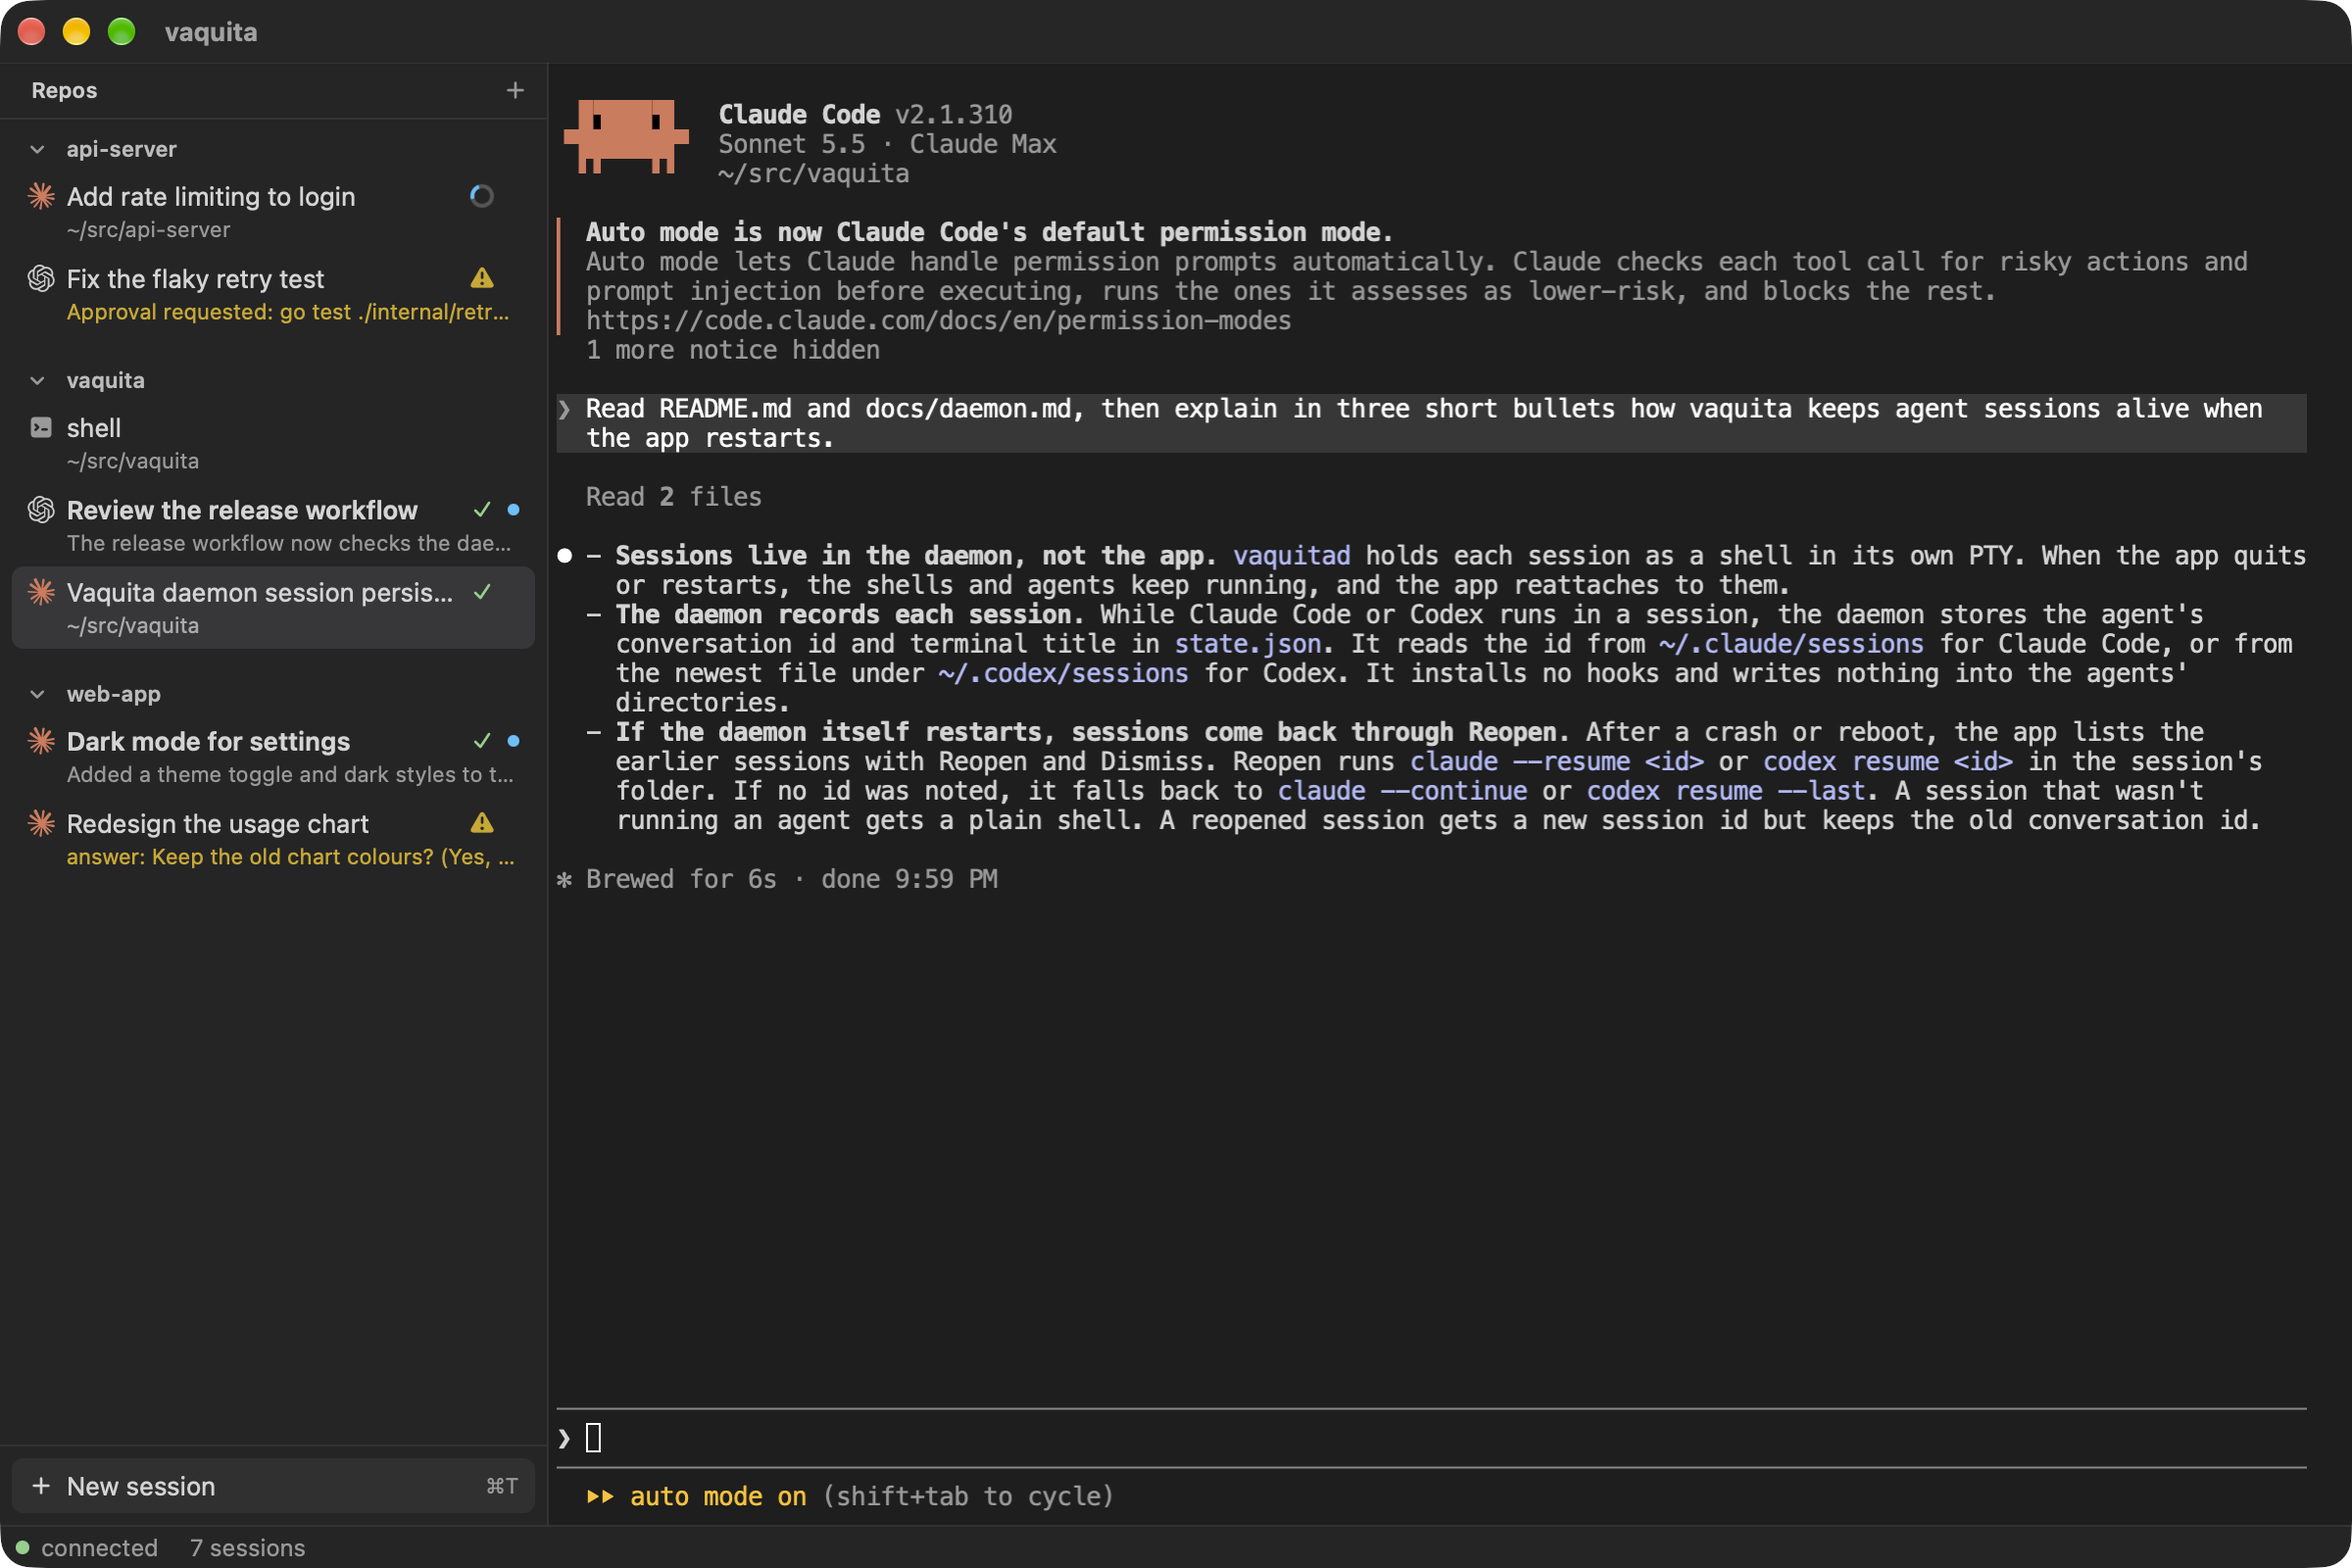
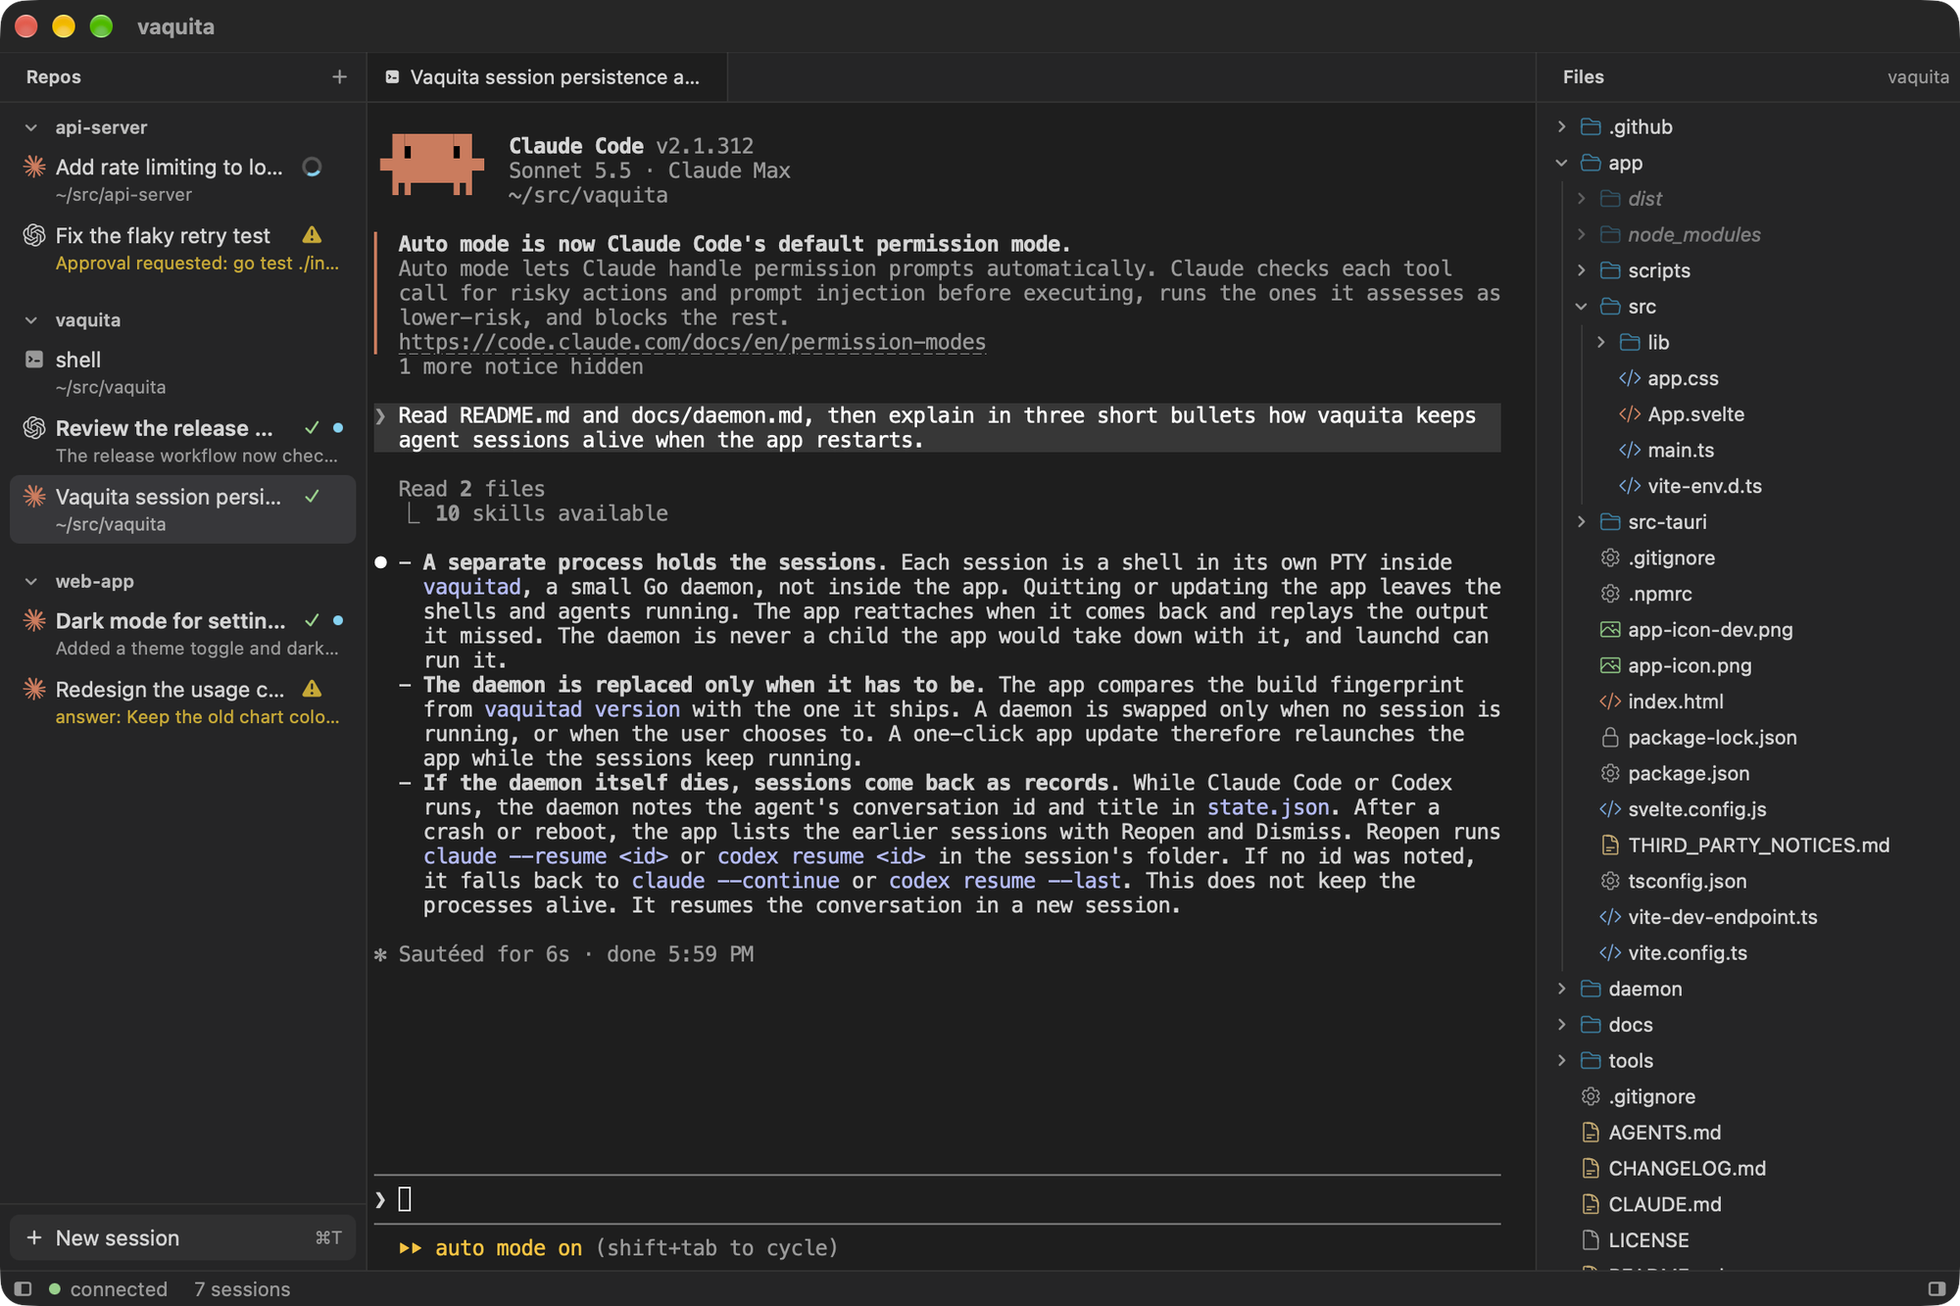
docs: a new screenshot, with the files panel

Changed region(s): [[0.0, 0.0308, 0.992, 0.9535], [0.186, 0.892, 0.465, 0.9842], [0.0, 0.9842, 0.155, 1.0]]

diff --git a/README.md b/README.md
@@ -16,7 +16,7 @@
 
 vaquita is a lightweight ADE (agentic development environment) for macOS. It runs AI coding agents such as [Claude Code](https://code.claude.com) and [Codex CLI](https://github.com/openai/codex) side by side in the repos they work on: a Tauri app and a Go daemon in a download of about 10 MB, with no hooks to install. Think of it as a smaller take on [Orca](https://www.onorca.dev/), the agent IDE.
 
-![The vaquita app: repos and their sessions in the sidebar, each with its agent's state, and a Claude Code session open](docs/screenshot.png)
+![The vaquita app: repos and their sessions in the sidebar, each with its agent's state, a Claude Code session open, and the repo's files on the right](docs/screenshot.png)
 
 ## Features
 
